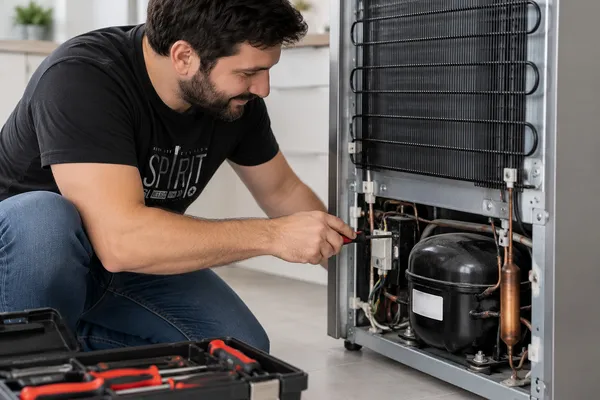
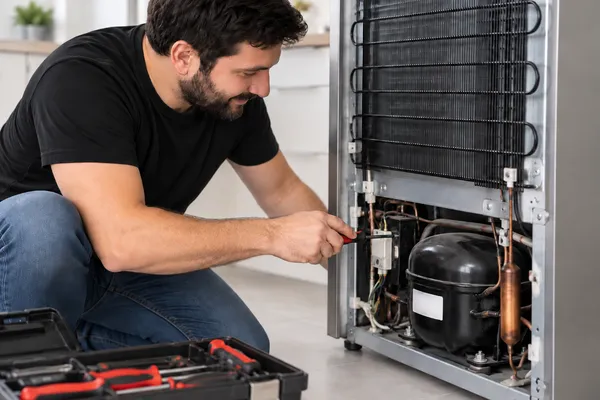
Fotos de lavarropas y heladera sin texto en la remera

diff --git a/docs/PROGRESO.md b/docs/PROGRESO.md
@@ -35,6 +35,7 @@ Claude: agregá una entrada al terminar cada tarea (fecha, qué se hizo, decisio
 - **Servicio nuevo:** `/reparacion-secarropas`.
 - **Pendientes:**
   - Las fotos son generadas con IA. Conviene reemplazarlas por fotos reales (técnico, camioneta) para la confianza y para Google Business Profile.
-  - En las fotos de lavarropas y heladera, el técnico tiene una remera con el texto «SPIRIT».
-  - OpenStreetMap da CP 11700 (Sayago) para Eduardo Pondal 705. Se dejó 12900 como indicó el negocio; confirmar con Correo Uruguayo.
   - En celular, el menú de la cabecera se desplaza de costado y «Contacto» queda oculto a la derecha. Revisarlo en la Fase 2.
+- **Resueltos:**
+  - CP 12900 confirmado por el negocio (coincide con Google; OpenStreetMap figura con 11700).
+  - Fotos de lavarropas y heladera regeneradas con remera lisa.
